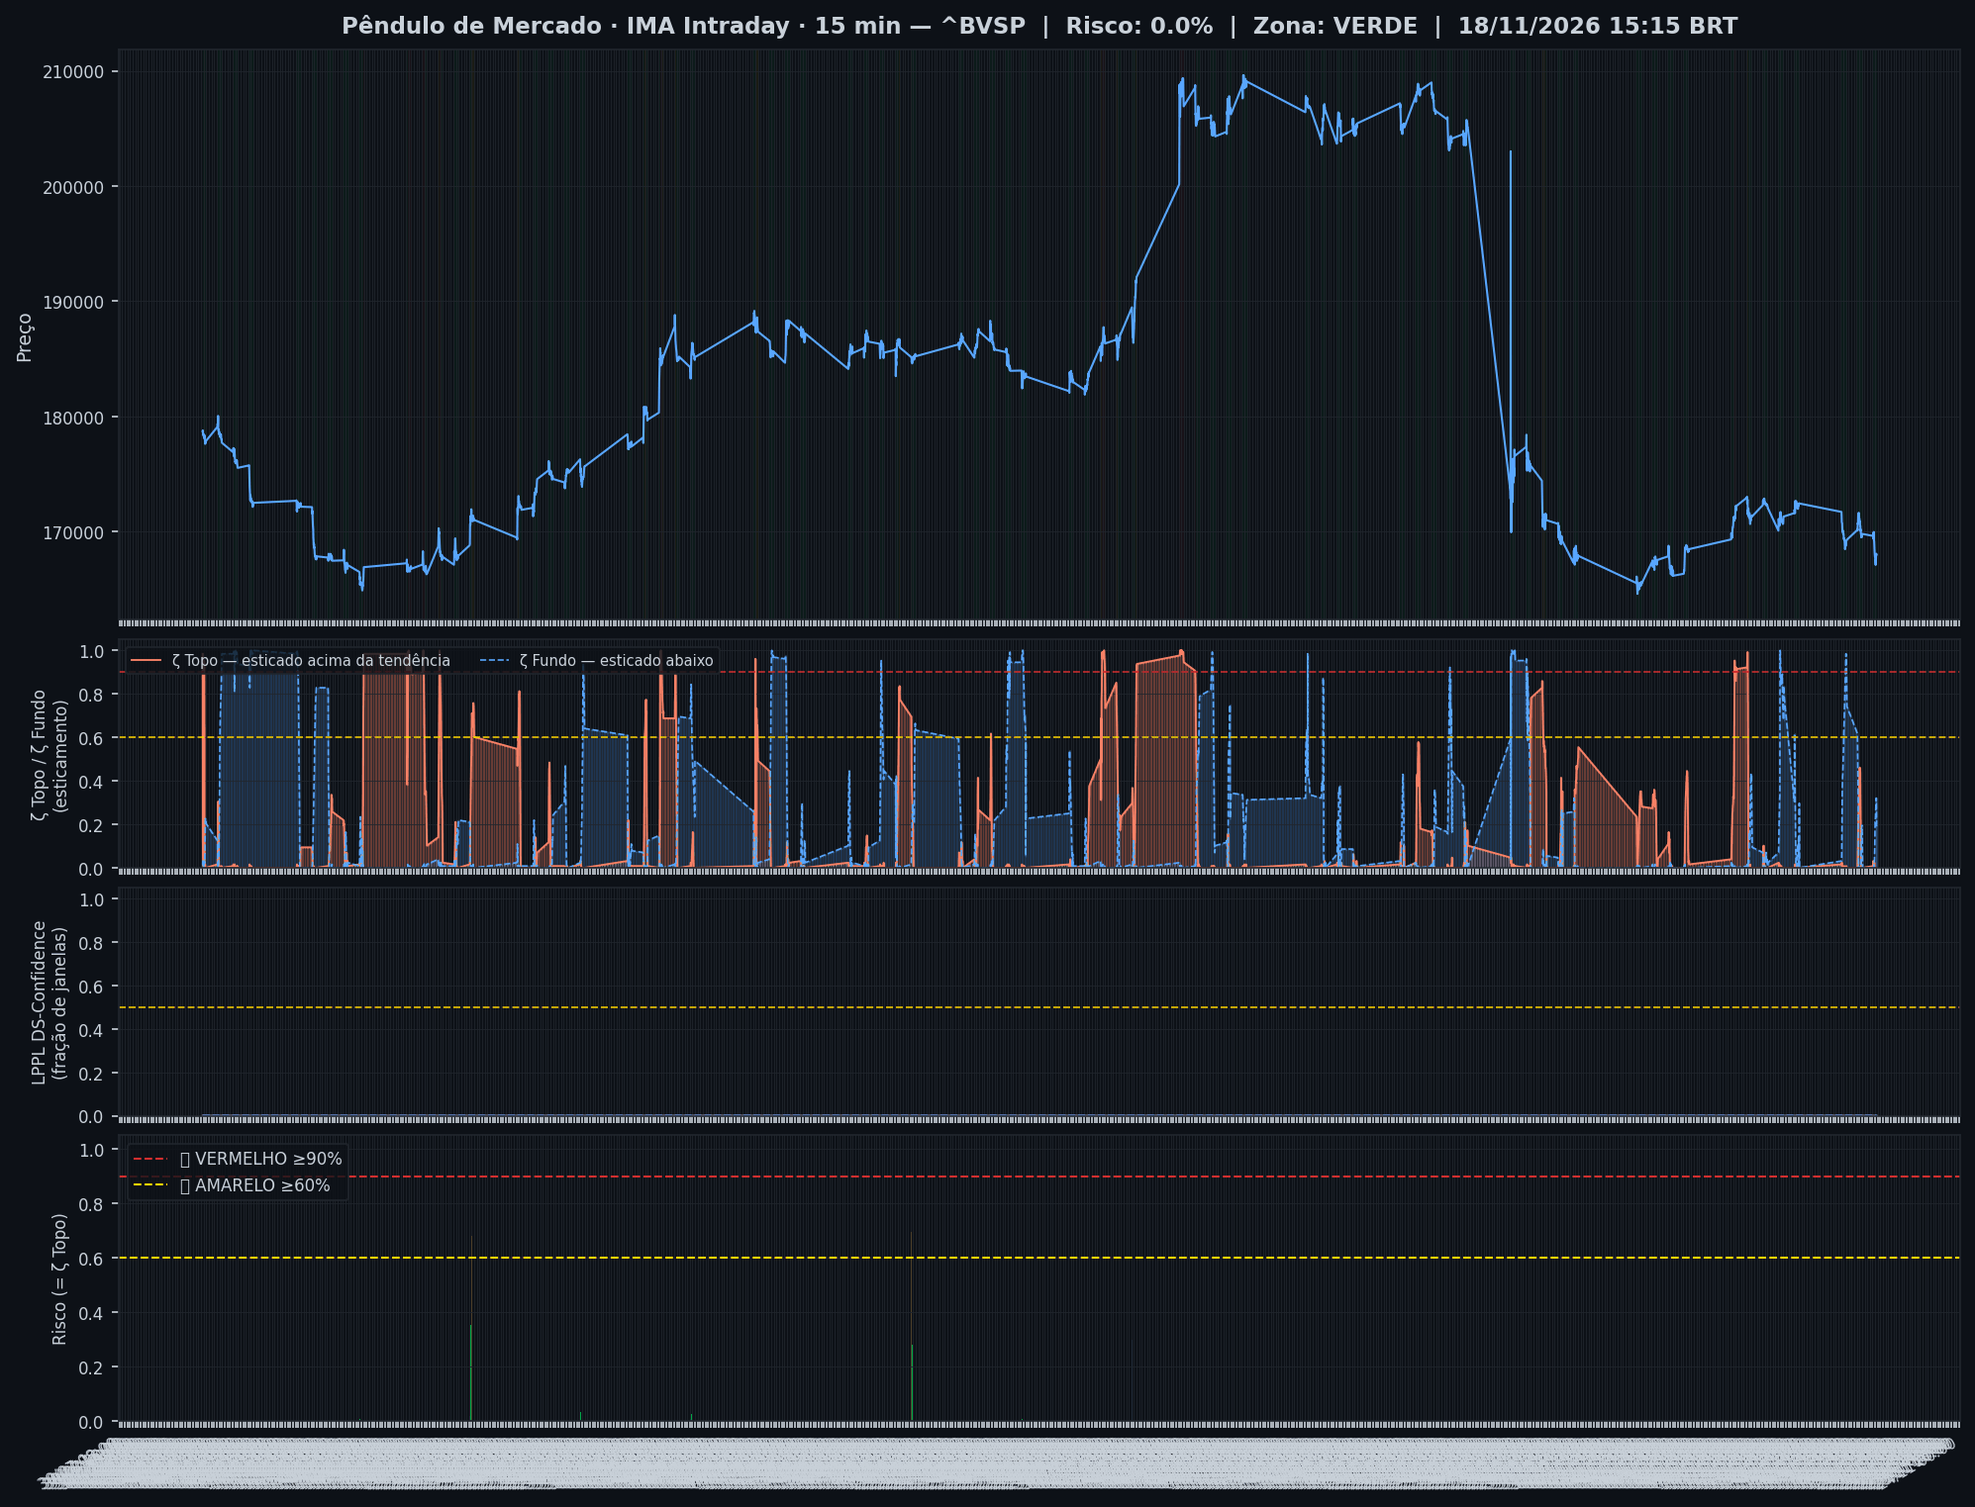
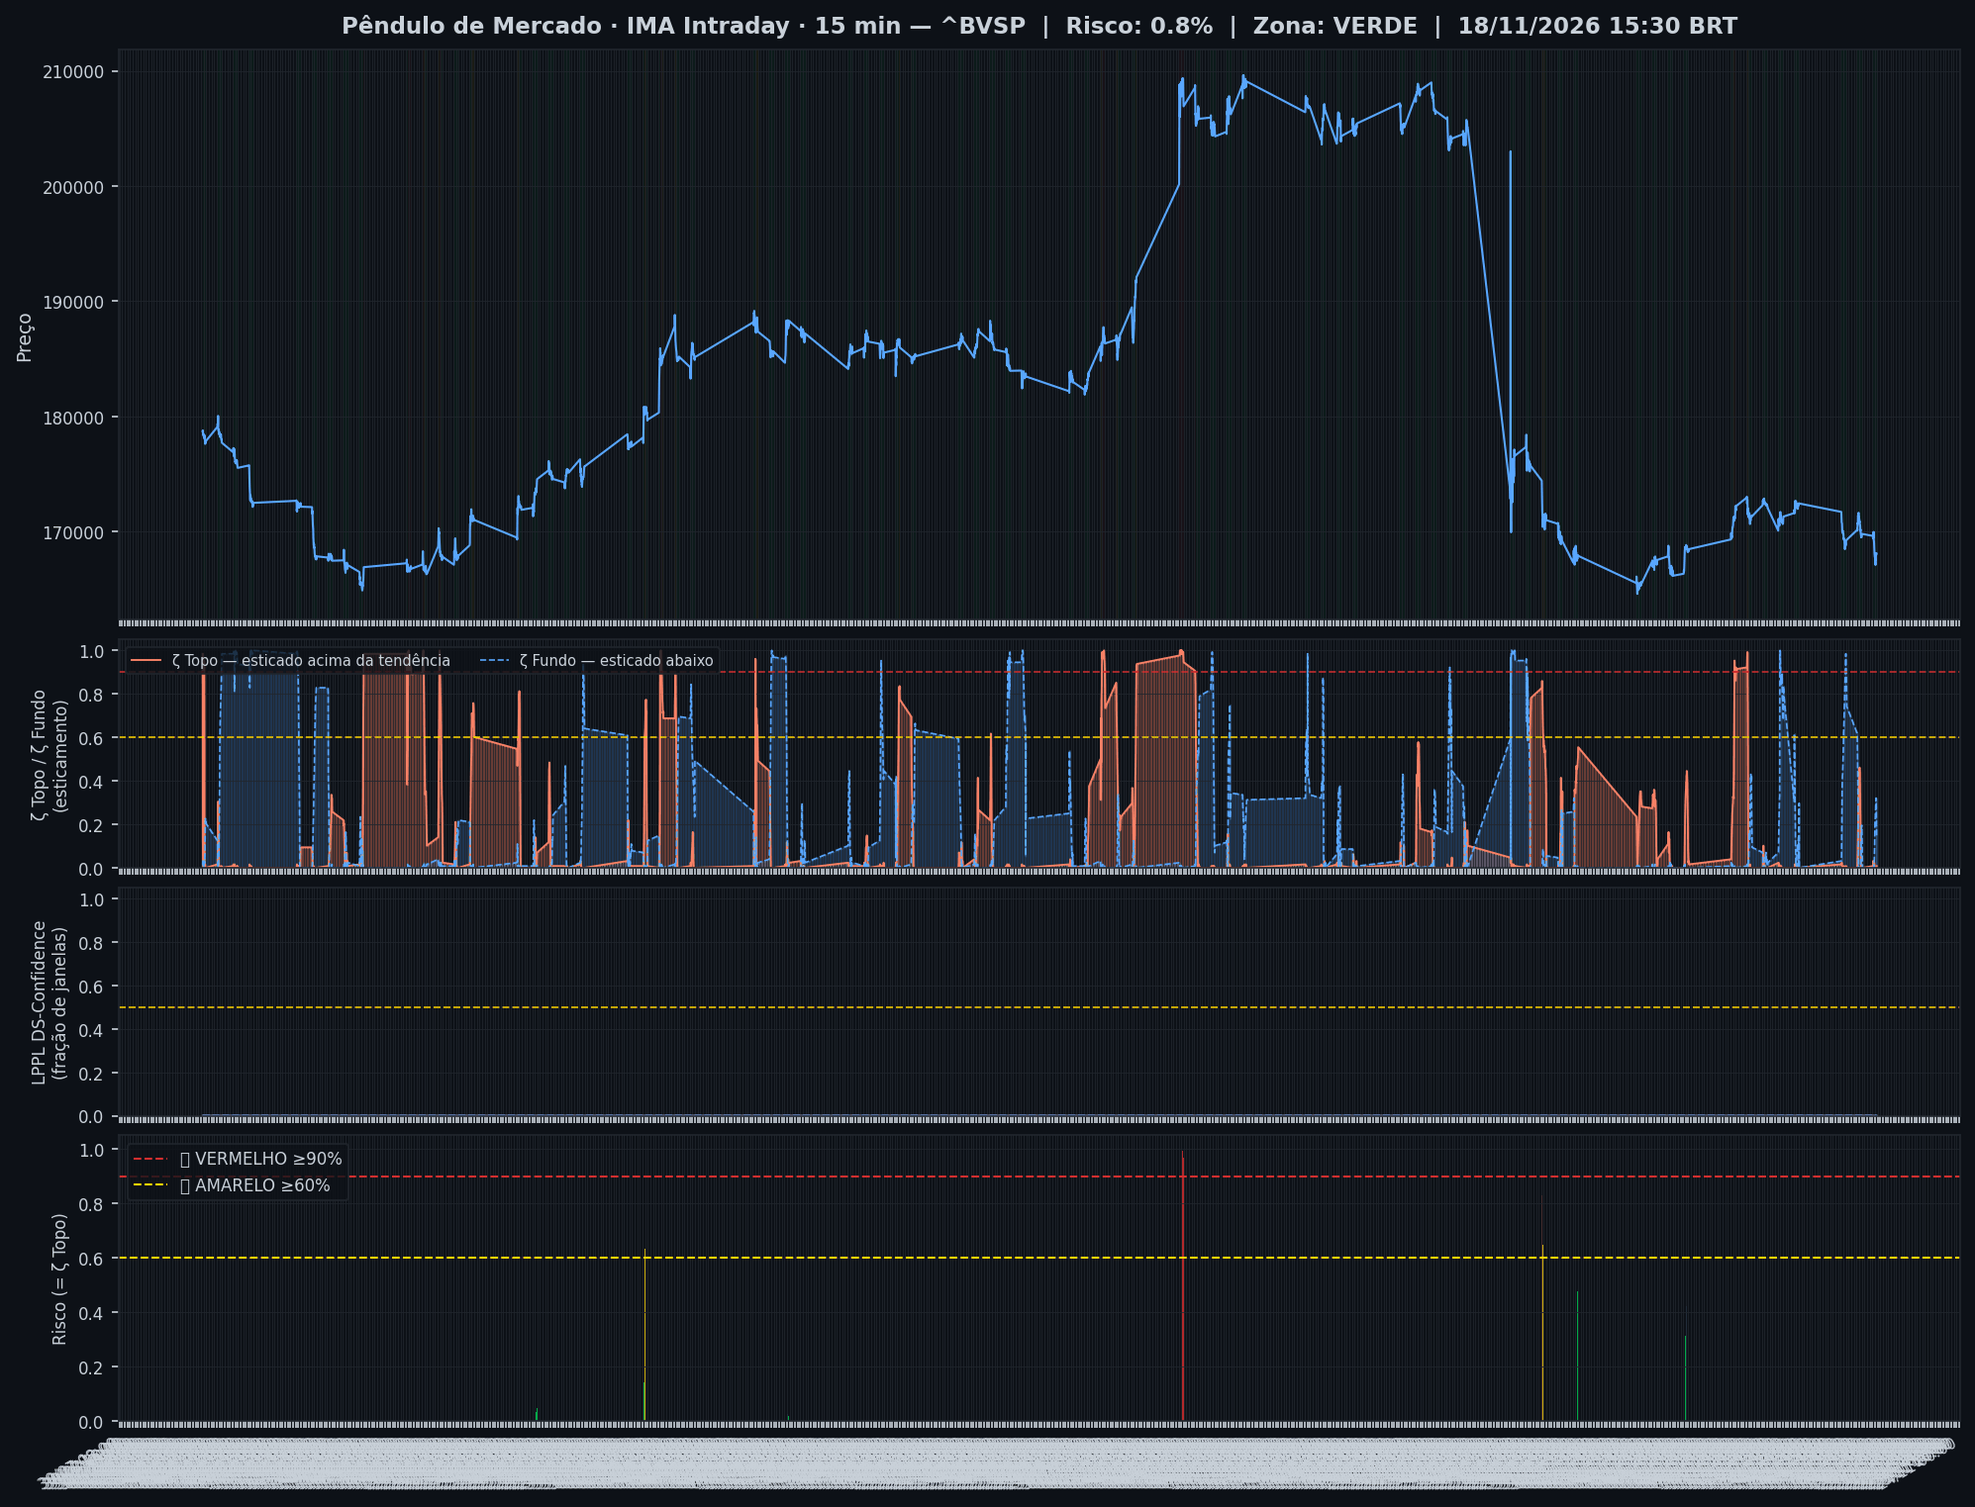
🤖 Auto: Sinal 18/11/2026 15:46

Changed region(s): [[0.9013, 0.5246, 0.9634, 0.5555], [0.7769, 0.5246, 0.808, 0.5863], [0.5905, 0.4938, 0.6216, 0.5555]]

diff --git a/content/intraday/2026-11-18.md b/content/intraday/2026-11-18.md
@@ -1,11 +1,11 @@
 ---
-title: "🟢 Intraday 18/11/2026 15:15 BRT — VERDE"
+title: "🟢 Intraday 18/11/2026 15:30 BRT — VERDE"
 date: 2026-11-18
 tags: [intraday]
 ---
 
-> [!success] Onde o mercado está agora (18/11 15:15, candles de 15 min): **🟢 Calmo**
-> `Pânico ◀────────●────────────▶ Euforia`
+> [!success] Onde o mercado está agora (18/11 15:30, candles de 15 min): **🟢 Calmo**
+> `Pânico ◀─────────●───────────▶ Euforia`
 >
 > O Ibovespa está dentro da sua faixa normal, sem excesso para cima nem para baixo.
 > No gráfico diário: 🌱 Fundo se desfazendo.
@@ -20,7 +20,7 @@ tags: [intraday]
 > | 📍 **Sinais** | hoje: nenhum sinal | [abrir](sinais-topo-fundo/) |
 > | 🧪 **Placar ao vivo** | 1 operação(ões), 0 com lucro, soma -0,8% | [abrir](operacoes/) |
 
-> [!success] IMA Intraday · 15 min (18/11 15:15): 🟢 **VERDE** — Risco 0% · ＝ +0 p.p. vs leitura anterior
+> [!success] IMA Intraday · 15 min (18/11 15:30): 🟢 **VERDE** — Risco 1% · ▲ +1 p.p. vs leitura anterior
 > `░░░░░░░░░░░░░░░░░░░░`
 > Preço na faixa normal em torno da tendência.
 
@@ -32,13 +32,13 @@ tags: [intraday]
 >
 > *Leitura educacional baseada em 26 anos de dados, não recomendação. [Como usar](../metodologia/crise#3-como-usar-na-prática).*
 
-| Indicador — IMA Intraday · 15 min (18/11 15:15) | Valor |
+| Indicador — IMA Intraday · 15 min (18/11 15:30) | Valor |
 |---|---|
-| 🔴 ζ Topo — preço esticado acima da tendência | **0%** |
-| 🔵 ζ Fundo — preço esticado abaixo da tendência | 19% |
+| 🔴 ζ Topo — preço esticado acima da tendência | **1%** |
+| 🔵 ζ Fundo — preço esticado abaixo da tendência | 15% |
 | 🫧 LPPL bolha — alta super-exponencial (risco de crash) | 0% |
 | 🫧 LPPL antibolha — queda super-exponencial (risco de repique) | 0% |
-| 📊 Ibovespa | 168.019 pts |
+| 📊 Ibovespa | 168.119 pts |
 
 ![Gráfico do sinal](../graficos/sinal_intraday.png)
 
@@ -46,6 +46,7 @@ tags: [intraday]
 
 | Data | Zona | Evento | Risco | ζ Topo | ζ Fundo | LPPL |
 |---|---|---|---|---|---|---|
+| 2026-11-18 15:30 | 🟢 VERDE |  | **1%** | 1% | 15% | 0% |
 | 2026-11-18 15:15 | 🟢 VERDE |  | **0%** | 0% | 19% | 0% |
 | 2026-11-18 15:00 | 🟢 VERDE |  | **0%** | 0% | 25% | 0% |
 | 2026-11-18 14:45 | 🟢 VERDE |  | **0%** | 0% | 32% | 0% |
@@ -75,52 +76,51 @@ tags: [intraday]
 | 2026-11-17 17:00 | 🟢 VERDE |  | **0%** | 0% | 20% | 0% |
 | 2026-11-17 16:45 | 🟢 VERDE |  | **0%** | 0% | 20% | 0% |
 | 2026-11-17 16:30 | 🟢 VERDE |  | **0%** | 0% | 19% | 0% |
-| 2026-11-17 16:15 | 🟢 VERDE |  | **0%** | 0% | 16% | 0% |
 
 <small>Destaques: 🟡 ≥ 60% · 🔴 ≥ 90% (Risco e ζ Topo) · 🔵 ≥ 60% · 🔪 ≥ 90% (ζ Fundo) · 🫧 ≥ 30% · 🫧🔴 ≥ 50% (LPPL)</small>
 
 ## Monitor Multi-Ativo
 
-**0% dos ativos em tensão** (0🔴 0🟡) · **7 com ζ Fundo alto** — quanto mais ativos disparam juntos, mais confiável o sinal.
+**0% dos ativos em tensão** (0🔴 0🟡) · **5 com ζ Fundo alto** — quanto mais ativos disparam juntos, mais confiável o sinal.
 
 > [!danger] Em destaque no multi-ativo
-> 🔪 **PRIO** ζ Fundo 97% · 🔪 **B3** ζ Fundo 95% · 🔵 **VIBRA** ζ Fundo 87% · 🔵 **WEG** ζ Fundo 86% · 🔵 **ULTRAPAR** ζ Fundo 82% · 🔵 **AXIA ENERGIA** ζ Fundo 62% · 🔵 **SABESP** ζ Fundo 61%
+> 🔪 **PRIO** ζ Fundo 96% · 🔪 **B3** ζ Fundo 95% · 🔵 **VIBRA** ζ Fundo 86% · 🔵 **WEG** ζ Fundo 81% · 🔵 **ULTRAPAR** ζ Fundo 81%
 
 | Zona | Ativo | Setor | ζ Topo | ζ Fundo |
 |---|---|---|---|---|
-| 🟢 | **PRIO** | Petróleo | 0.0% | 🔪 **96.9%** |
-| 🟢 | **B3** | Financeiro | 0.0% | 🔪 **95.3%** |
-| 🟢 | **VIBRA** | Energia | 0.0% | 🔵 **86.7%** |
-| 🟢 | **WEG** | Industrial | 0.0% | 🔵 **85.9%** |
-| 🟢 | **ULTRAPAR** | Outros | 0.0% | 🔵 **82.0%** |
-| 🟢 | **AXIA ENERGIA** | Energia | 0.0% | 🔵 **61.7%** |
-| 🟢 | **SABESP** | Saneamento | 1.6% | 🔵 **60.9%** |
-| 🟢 | **GERDAU** | Siderurgia | 54.7% | 0.0% |
-| 🟢 | **ENEVA** | Energia | 0.8% | 53.9% |
-| 🟢 | **TELEF BRASIL** | Outros | 0.0% | 53.1% |
+| 🟢 | **PRIO** | Petróleo | 0.0% | 🔪 **96.1%** |
+| 🟢 | **B3** | Financeiro | 0.8% | 🔪 **94.5%** |
+| 🟢 | **VIBRA** | Energia | 0.8% | 🔵 **85.9%** |
+| 🟢 | **WEG** | Industrial | 0.0% | 🔵 **81.2%** |
+| 🟢 | **ULTRAPAR** | Outros | 0.0% | 🔵 **81.2%** |
+| 🟢 | **AXIA ENERGIA** | Energia | 0.0% | 57.0% |
+| 🟢 | **GERDAU** | Siderurgia | 53.9% | 0.0% |
+| 🟢 | **ENEVA** | Energia | 0.8% | 53.1% |
+| 🟢 | **SABESP** | Saneamento | 1.6% | 50.0% |
 | 🟢 | **RUMO S.A.** | Outros | 0.0% | 49.2% |
-| 🟢 | **EMBRAER** | Outros | 0.0% | 46.1% |
-| 🟢 | **PETROBRAS** | Petróleo | 0.8% | 42.2% |
-| 🟢 | **PETROBRAS** | Petróleo | 0.8% | 42.2% |
-| 🟢 | **COPEL** | Energia | 1.6% | 23.4% |
-| 🟢 | **USD/BRL** | Câmbio | 19.5% | 0.0% |
-| 🟢 | **SUZANO S.A.** | Papel/Celulose | 18.8% | 0.0% |
-| 🟢 | **REDE D OR** | Saúde | 0.0% | 13.3% |
-| 🟢 | **LOCALIZA** | Aluguel | 12.5% | 0.8% |
-| 🟢 | **AMBEV S/A** | Consumo | 8.6% | 0.8% |
-| 🟢 | **ITAUUNIBANCO** | Financeiro | 0.0% | 5.5% |
-| 🟢 | **BTGP BANCO** | Financeiro | 5.5% | 0.0% |
-| 🟢 | **VALE** | Mineração | 4.7% | 0.0% |
-| 🟢 | **BRADESCO** | Financeiro | 3.9% | 0.0% |
-| 🟢 | **BRASIL** | Financeiro | 2.3% | 0.8% |
-| 🟢 | **EQUATORIAL** | Energia | 0.0% | 0.8% |
-| 🟢 | **ITAUSA** | Financeiro | 0.0% | 0.0% |
+| 🟢 | **EMBRAER** | Outros | 0.0% | 45.3% |
+| 🟢 | **TELEF BRASIL** | Outros | 0.8% | 41.4% |
+| 🟢 | **PETROBRAS** | Petróleo | 0.0% | 39.1% |
+| 🟢 | **PETROBRAS** | Petróleo | 0.0% | 35.9% |
+| 🟢 | **SUZANO S.A.** | Papel/Celulose | 28.9% | 0.0% |
+| 🟢 | **COPEL** | Energia | 1.6% | 26.6% |
+| 🟢 | **USD/BRL** | Câmbio | 20.3% | 0.0% |
+| 🟢 | **AMBEV S/A** | Consumo | 14.1% | 0.0% |
+| 🟢 | **LOCALIZA** | Aluguel | 14.1% | 0.0% |
+| 🟢 | **REDE D OR** | Saúde | 0.0% | 10.9% |
+| 🟢 | **VALE** | Mineração | 7.0% | 0.0% |
+| 🟢 | **BTGP BANCO** | Financeiro | 6.2% | 0.0% |
+| 🟢 | **BRASIL** | Financeiro | 6.2% | 0.0% |
+| 🟢 | **BRADESCO** | Financeiro | 4.7% | 0.0% |
+| 🟢 | **ITAUUNIBANCO** | Financeiro | 0.8% | 0.8% |
+| 🟢 | **ITAUSA** | Financeiro | 0.8% | 0.0% |
+| 🟢 | **EQUATORIAL** | Energia | 0.8% | 0.0% |
 
 <small>Destaques: 🟡 ≥ 60% · 🔴 ≥ 90% (Risco e ζ Topo) · 🔵 ≥ 60% · 🔪 ≥ 90% (ζ Fundo) · 🫧 ≥ 30% · 🫧🔴 ≥ 50% (LPPL)</small>
 
 ![Monitor multi-ativo](../graficos/multi_intraday.png)
 
-*Página atualizada em 18/11/2026 15:31 BRT (leitura da barra de 2026-11-18 15:15 BRT).*
+*Página atualizada em 18/11/2026 15:46 BRT (leitura da barra de 2026-11-18 15:30 BRT).*
 
 > [!warning] O que este indicador não faz
 > Medido em 5 anos de Ibovespa, o ζ **não antecipa** topos nem fundos: a capacidade de separar o que sobe do que cai ficou em 0,49–0,52, e 0,50 é moeda jogada ao ar. Ele descreve o estado de agora; não é aviso do que vem. As zonas verde/amarelo/vermelho continuam na página como descrição desse estado — **não as use como sinal de entrada ou saída**.

diff --git a/content/index.md b/content/index.md
@@ -6,10 +6,10 @@ tags: [home]
 
 **As ondas do mercado, explicadas.** Leitura do Ibovespa com estatística de 26 anos, baseada no trabalho de pesquisadores e traders reconhecidos e adaptada por Jarbas Daniel da Costa.
 
-*Última atualização: 18/11/2026 15:31 BRT · Intraday 15min*
+*Última atualização: 18/11/2026 15:46 BRT · Intraday 15min*
 
-> [!success] Onde o mercado está agora (18/11 15:15, candles de 15 min): **🟢 Calmo**
-> `Pânico ◀────────●────────────▶ Euforia`
+> [!success] Onde o mercado está agora (18/11 15:30, candles de 15 min): **🟢 Calmo**
+> `Pânico ◀─────────●───────────▶ Euforia`
 >
 > O Ibovespa está dentro da sua faixa normal, sem excesso para cima nem para baixo.
 > No gráfico diário: 🌱 Fundo se desfazendo.
@@ -20,7 +20,7 @@ tags: [home]
 
 | Módulo | Agora | |
 |---|---|---|
-| 🌊 **Sinal IMA** | 🟢 VERDE · 🟢 calmo · ζ Topo 0% | [relatório](intraday/2026-11-18) |
+| 🌊 **Sinal IMA** | 🟢 VERDE · 🟢 calmo · ζ Topo 1% | [relatório](intraday/2026-11-18) |
 | 📈 **Tendência MME9** | Diário — fora<br>Semanal — fora | [abrir](operacoes/tendencia) |
 | 🎯 **Entradas do método** | ⏳ aguardando: Diário · Semáforo N3 após ζ Fundo | [abrir](operacoes/entradas) |
 | 📍 **Sinais** | hoje: nenhum sinal | [abrir](sinais-topo-fundo/) |
@@ -44,18 +44,18 @@ tags: [home]
 > *Leitura educacional baseada em 26 anos de dados, não recomendação. [Como usar](metodologia/crise#3-como-usar-na-prática).*
 
 > [!info]- 🌊 Detalhes do Sinal IMA (indicadores e últimos 7 pregões)
-> > [!success] IMA Intraday · 15 min (18/11 15:15): 🟢 **VERDE** — Risco 0% · ＝ +0 p.p. vs leitura anterior
+> > [!success] IMA Intraday · 15 min (18/11 15:30): 🟢 **VERDE** — Risco 1% · ▲ +1 p.p. vs leitura anterior
 > > `░░░░░░░░░░░░░░░░░░░░`
 > > Preço na faixa normal em torno da tendência.
 >
 >
-> | Indicador — IMA Intraday · 15 min (18/11 15:15) | Valor |
+> | Indicador — IMA Intraday · 15 min (18/11 15:30) | Valor |
 > |---|---|
-> | 🔴 ζ Topo — preço esticado acima da tendência | **0%** |
-> | 🔵 ζ Fundo — preço esticado abaixo da tendência | 19% |
+> | 🔴 ζ Topo — preço esticado acima da tendência | **1%** |
+> | 🔵 ζ Fundo — preço esticado abaixo da tendência | 15% |
 > | 🫧 LPPL bolha — alta super-exponencial (risco de crash) | 0% |
 > | 🫧 LPPL antibolha — queda super-exponencial (risco de repique) | 0% |
-> | 📊 Ibovespa | 168.019 pts |
+> | 📊 Ibovespa | 168.119 pts |
 >
 > **Multi-ativo:** 0% em tensão (0🔴 0🟡 de 27 ativos)
 >
@@ -63,7 +63,7 @@ tags: [home]
 >
 > | Data | Zona | Risco | ζ Topo | ζ Fundo | LPPL |
 > |---|---|---|---|---|---|
-> | [18/11/2026](intraday/2026-11-18) | 🟢 VERDE | **0%** | 0% | 19% | 0% |
+> | [18/11/2026](intraday/2026-11-18) | 🟢 VERDE | **1%** | 1% | 15% | 0% |
 > | [17/11/2026](intraday/2026-11-17) | 🟢 VERDE | **0%** | 0% | 0% | 0% |
 >
 > <small>Destaques: 🟡 ≥ 60% · 🔴 ≥ 90% (Risco e ζ Topo) · 🔵 ≥ 60% · 🔪 ≥ 90% (ζ Fundo) · 🫧 ≥ 30% · 🫧🔴 ≥ 50% (LPPL)</small>

diff --git a/content/operacoes/entradas.md b/content/operacoes/entradas.md
@@ -31,7 +31,7 @@ description: "Compra depois de um sinal de fundo: Nadaraya no diário, semáforo
 > | Diário · Semáforo N3 após ζ Fundo | 07/07/26 a 172.021 | 10/08/26 a 172.021 | **+0,0%** | stop no preço de entrada |
 > | H4 · Semáforo N2 | 12/06/26 14h a 171.134 | 15/06/26 14h a 171.134 | **+0,0%** | stop no preço de entrada |
 >
-> <small>Atualizado 17/11 19:00 · checado no pregão às 15:30. Nota: ✅ passou no teste fora da amostra (walk-forward 2008–2026) · 🧪 em teste (H4, com aviso no Telegram) ou em observação (ζ, sem aviso) · 🧪 na tabela = operação do teste ao vivo.</small>
+> <small>Atualizado 17/11 19:00 · checado no pregão às 15:45. Nota: ✅ passou no teste fora da amostra (walk-forward 2008–2026) · 🧪 em teste (H4, com aviso no Telegram) ou em observação (ζ, sem aviso) · 🧪 na tabela = operação do teste ao vivo.</small>
 >
 > *Regras: depois de um sinal de fundo, o Diário entra quando o Nadaraya vira para cima; o Semanal e o H4 entram quando um fundo do semáforo fica fixo. Stop e saída de cada regra na [metodologia](metodologia/regras-de-operacao#entradas-do-método). Nenhuma regra de venda passou no teste. Os números do histórico têm viés de escolha (overfitting); o placar ao vivo é o que vale. Leitura educacional do método, não recomendação.*
 

diff --git a/content/integridade/index.md b/content/integridade/index.md
@@ -5,7 +5,7 @@ description: "O que foi conferido, contra qual fonte e quando — medido na hora
 tags: [integridade]
 ---
 
-*Pregão conferido: **17/11/2026**, com 61 tabelas no acervo · página gerada em 18/11/2026 15:31*
+*Pregão conferido: **17/11/2026**, com 61 tabelas no acervo · página gerada em 18/11/2026 15:46*
 
 O pregão conferido é o último **fechado e arquivado inteiro**, não o de hoje: enquanto o dia corre, só algumas tabelas estão gravadas, e conferir um dia pela metade produziria alarme falso.
 
@@ -22,7 +22,7 @@ Esta página não declara que o site está correto. Ela **mede** e escreve o res
 | Tabelas com conteúdo fora da curva | nenhuma |
 | Páginas publicadas | 353 |
 | Conferências cruzadas das páginas | 71 certas, nenhuma divergência |
-| Página escrita mais recentemente | 18/11 15:31 |
+| Página escrita mais recentemente | 18/11 15:46 |
 | Páginas sem data no cabeçalho | 8 — cegas para a conferência de dado |
 
 ## 1 · Acervo do boletim diário

diff --git a/content/historico.md b/content/historico.md
@@ -5,7 +5,7 @@ tags: [historico]
 
 # 📜 Histórico de leituras (v5)
 
-**2.469 leituras** desde 2026-07-03. Na página ficam os últimos 3 dias leitura por leitura e o resumo de cada dia anterior; o registro inteiro está no arquivo para baixar.
+**2.470 leituras** desde 2026-07-03. Na página ficam os últimos 3 dias leitura por leitura e o resumo de cada dia anterior; o registro inteiro está no arquivo para baixar.
 
 [**Baixar o histórico completo**](historico-completo.csv) (108 KB · abre no Excel e no LibreOffice)
 
@@ -16,6 +16,7 @@ tags: [historico]
 
 | Data | Modo | Zona | Risco | IMA | LPPL |
 |---|---|---|---|---|---|
+| 2026-11-18 15:30 | intraday | 🟢 VERDE | 1% | 1% | 0% |
 | 2026-11-18 15:15 | intraday | 🟢 VERDE | 0% | 0% | 0% |
 | 2026-11-18 15:00 | intraday | 🟢 VERDE | 0% | 0% | 0% |
 | 2026-11-18 14:45 | intraday | 🟢 VERDE | 0% | 0% | 0% |

diff --git a/content/operacoes/ranking.md b/content/operacoes/ranking.md
@@ -5,7 +5,7 @@ tags: [operacoes]
 description: "As regras de compra do site ordenadas pelo resultado, com treino, teste e placar ao vivo"
 ---
 
-*Atualizado 18/11/2026 15:31 · histórico simulado com as regras congeladas em 23/10/2026 + placar ao vivo.*
+*Atualizado 18/11/2026 15:46 · histórico simulado com as regras congeladas em 23/10/2026 + placar ao vivo.*
 
 As regras de compra do site, **da que mais rendeu para a que menos rendeu**. O resultado é por operação, no índice à vista, sem custos e sem juros compostos (a soma é só a soma das operações). **Treino** = entradas de 2001 a 2013 e **teste** = 2014 em diante: uma regra só é confiável se ganhou nos dois. O único resultado sem nenhum ajuste ao histórico é o **placar ao vivo**.
 

diff --git a/content/linha-do-tempo/index.md b/content/linha-do-tempo/index.md
@@ -5,7 +5,7 @@ description: "Todo sinal, ordem, stop e aviso do Pêndulo de Mercado, do mais re
 tags: [eventos]
 ---
 
-*Atualizada 18/11/2026 15:31 BRT · a cada 15 min no pregão e às 19h.*
+*Atualizada 18/11/2026 15:46 BRT · a cada 15 min no pregão e às 19h.*
 
 Tudo o que o sistema fez ou detectou, **do mais recente para o mais antigo**: sinais de topo e fundo, ordens de compra e de venda armadas, compras, vendas, stops, avisos de 🚨 preço perto do nível e mudanças do Sinal IMA. Os **últimos 7 dias** ficam abertos; o resto, por **ano → mês → dia**.
 

diff --git a/content/avisos/index.md b/content/avisos/index.md
@@ -2,7 +2,7 @@
 title: "⚠ Avisos: o que saber antes de usar os números"
 ---
 
-*Gerado em 18/11/2026 15:31*
+*Gerado em 18/11/2026 15:46*
 
 Este site publica muitos números, e cada um tem uma limitação que importa na hora de
 decidir. As limitações estão escritas nas próprias páginas, mas quem chega direto numa
